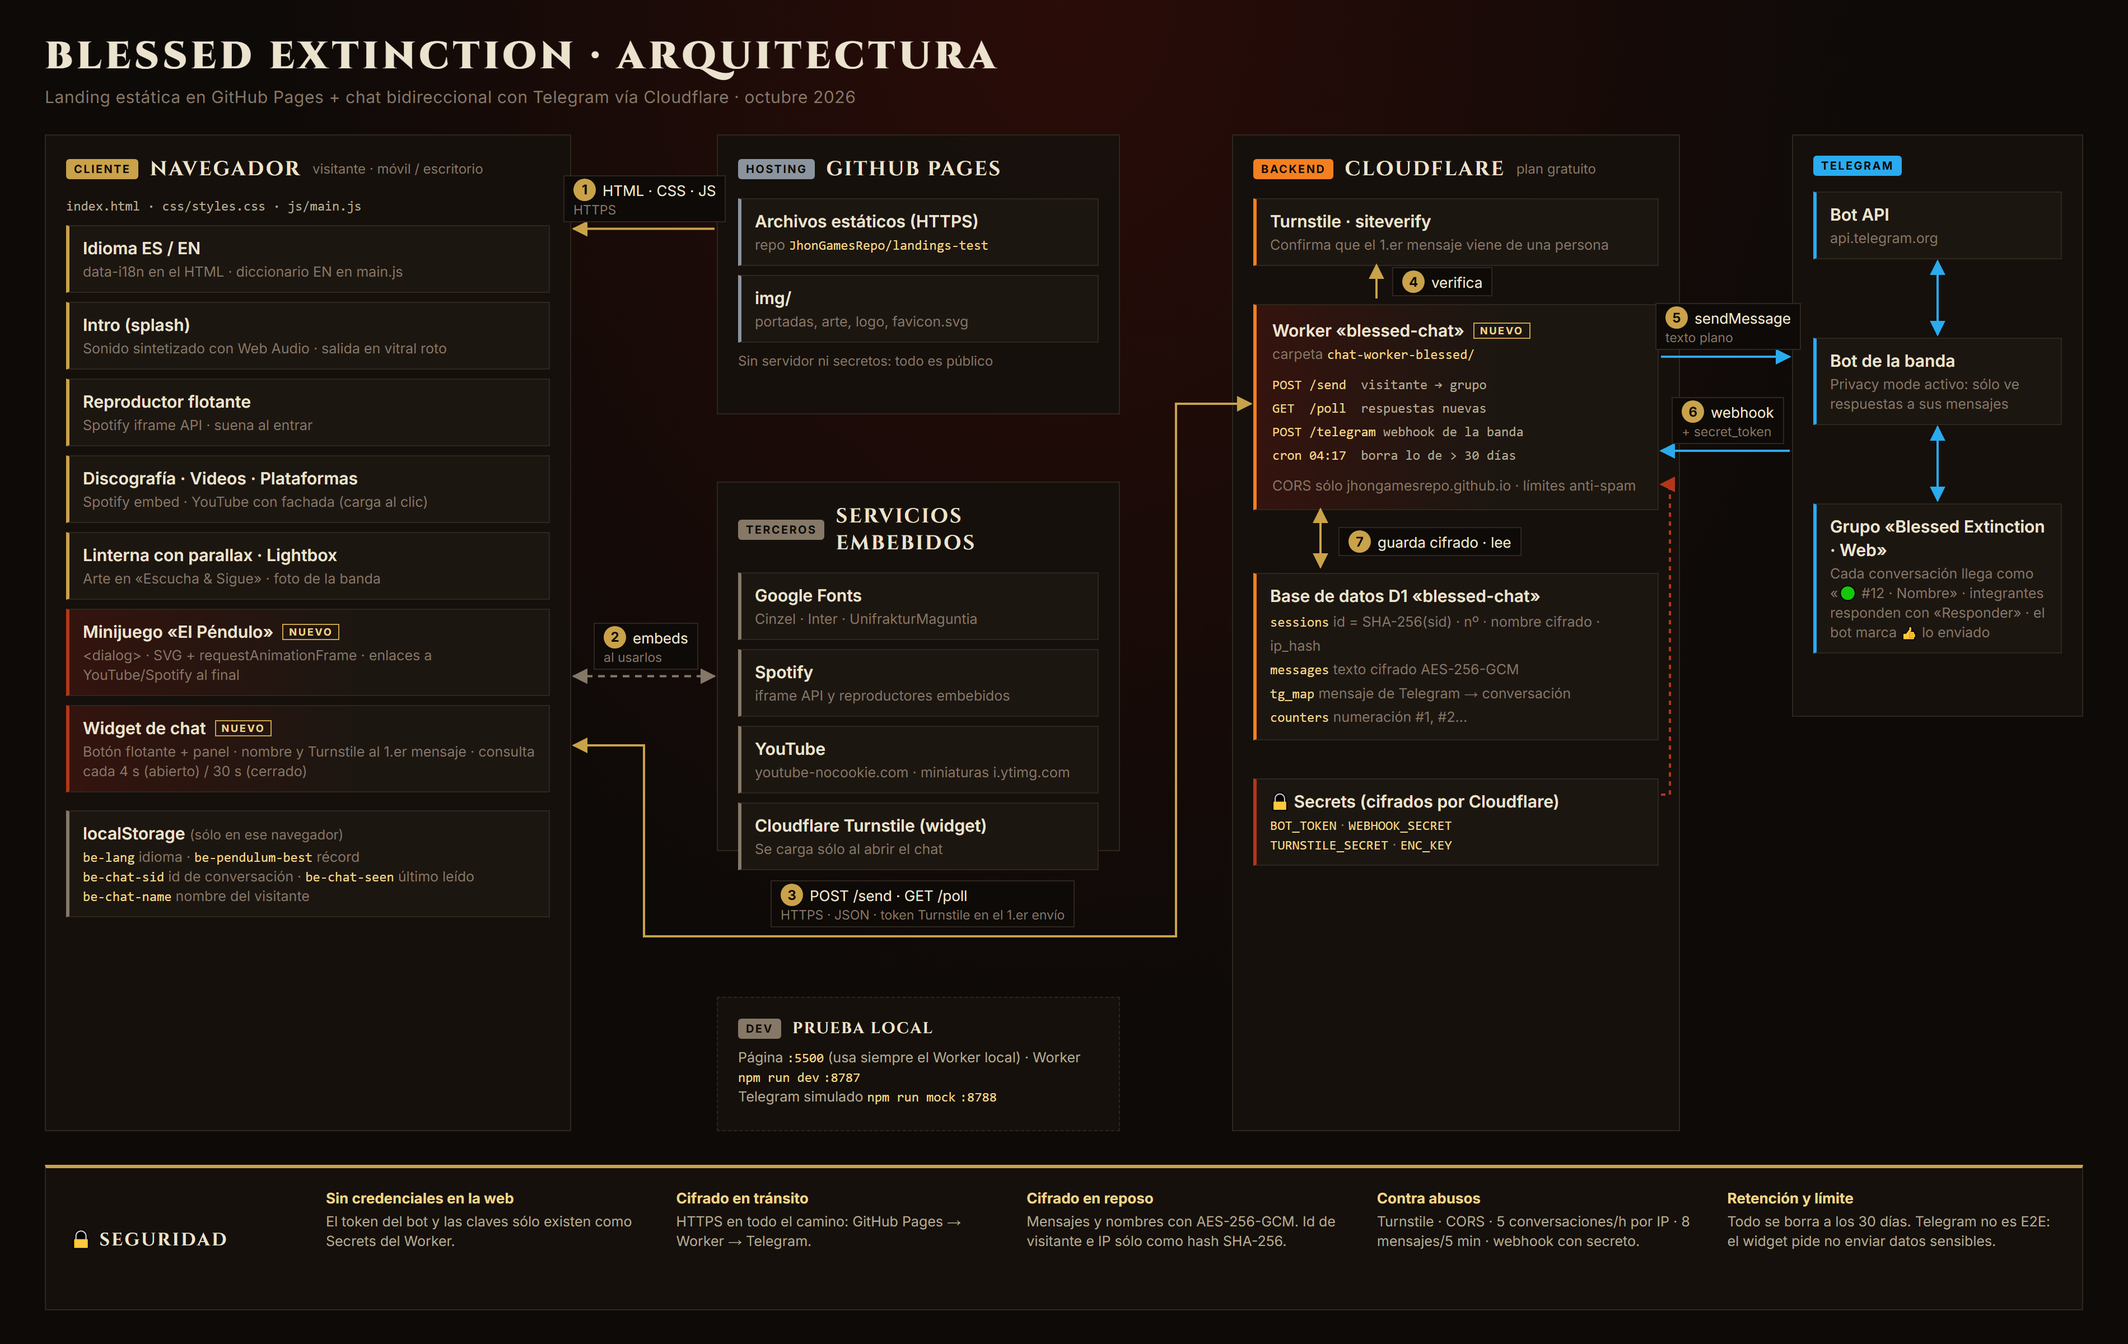
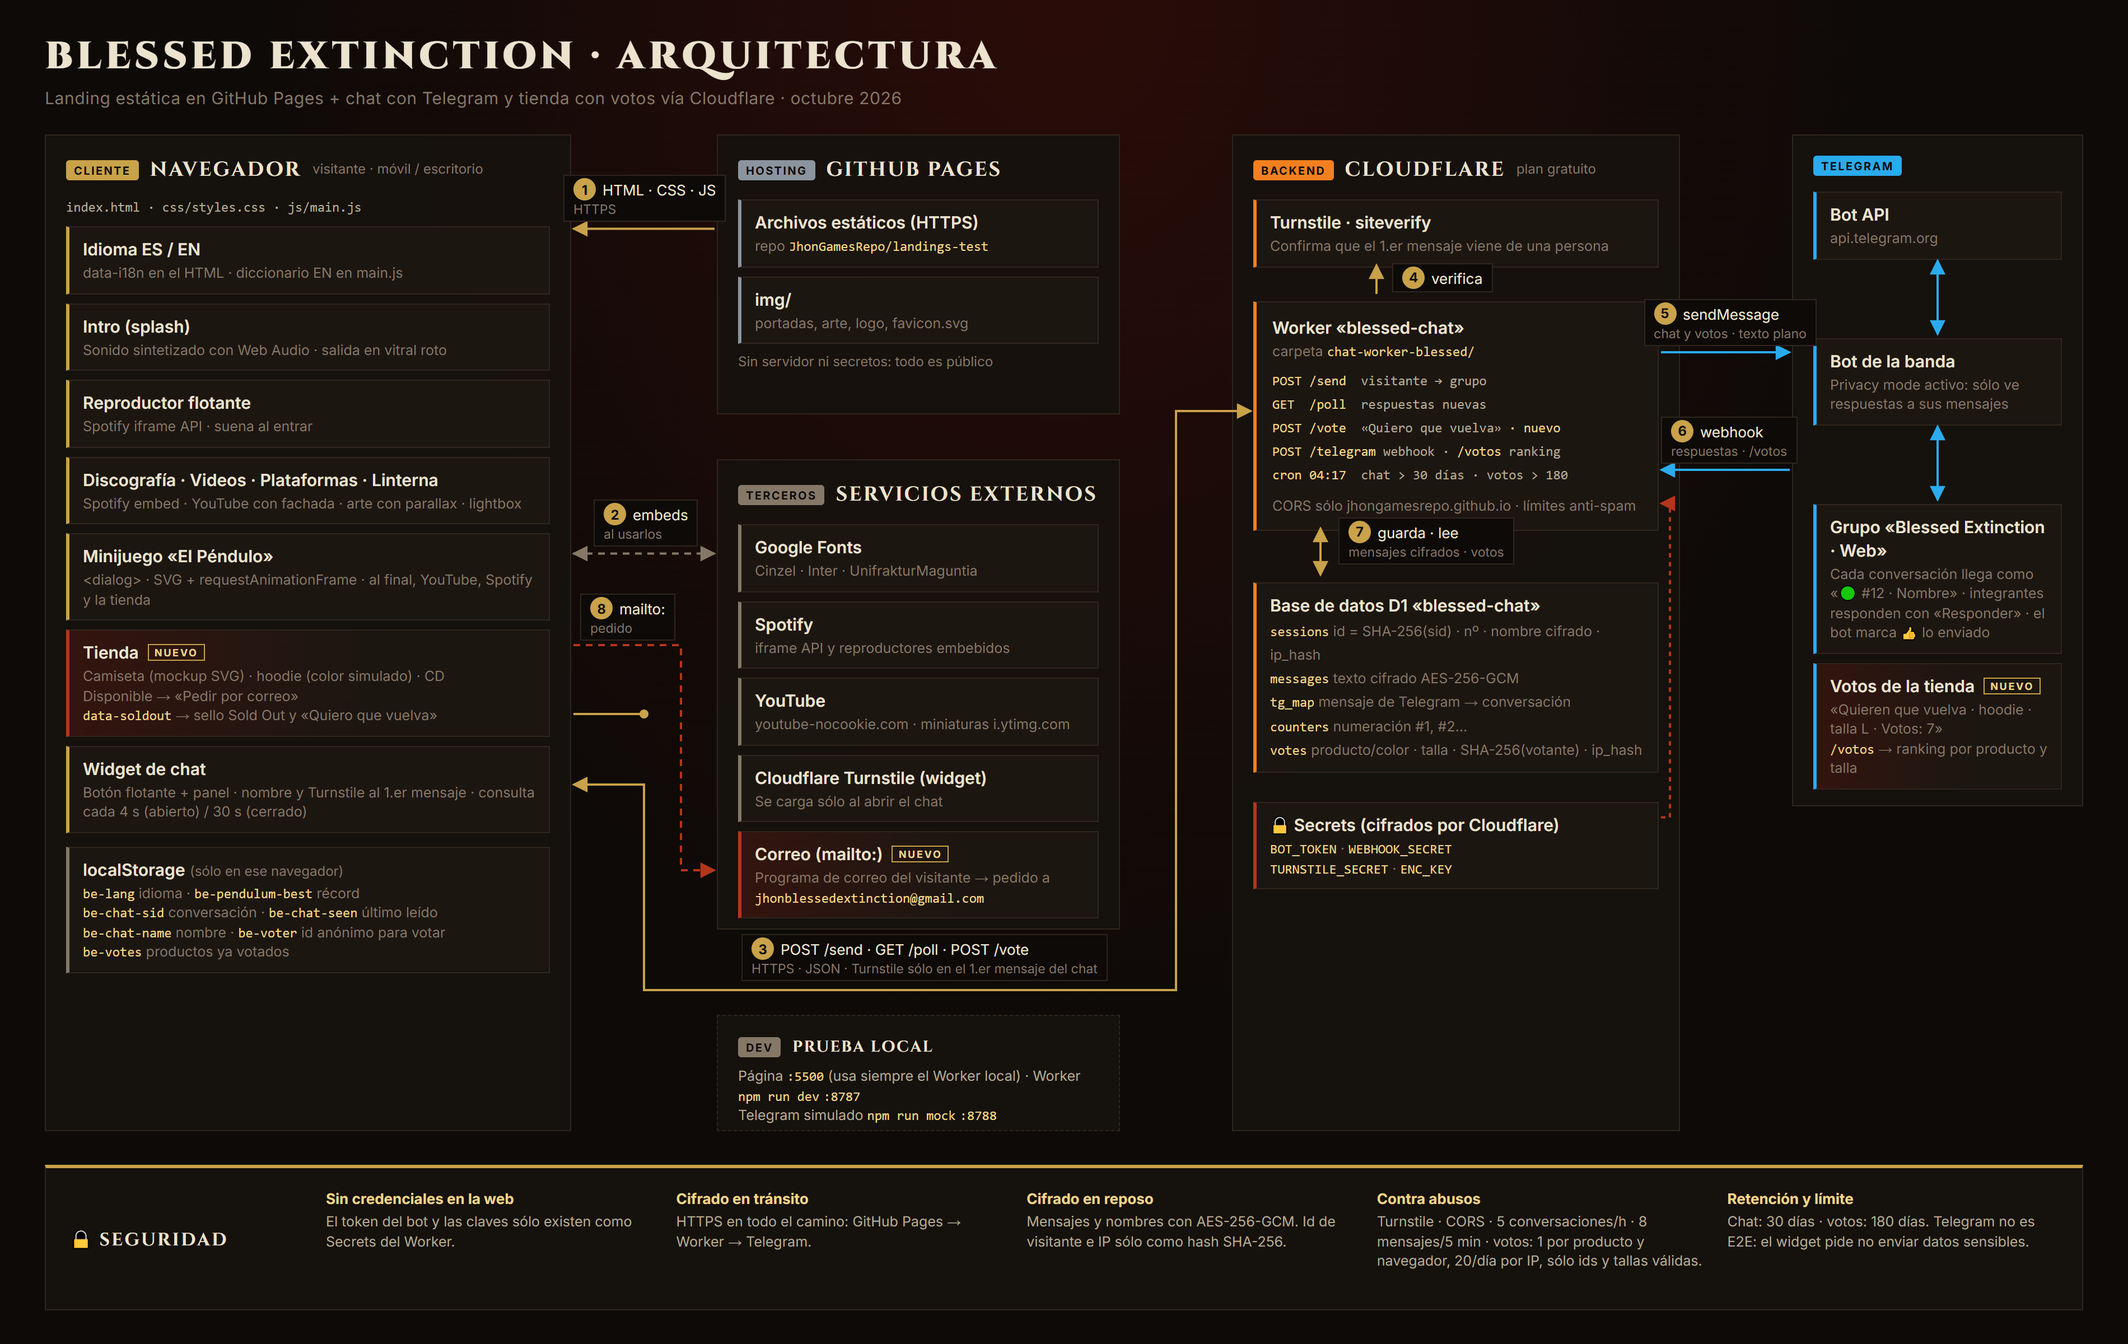
Arquitectura updated

diff --git a/docs/arquitectura.html b/docs/arquitectura.html
@@ -38,7 +38,7 @@
 </style>
 </head>
 <body>
-<h1>Blessed Extinction · Arquitectura<small>Landing estática en GitHub Pages + chat bidireccional con Telegram vía Cloudflare · octubre 2026</small></h1>
+<h1>Blessed Extinction · Arquitectura<small>Landing estática en GitHub Pages + chat con Telegram y tienda con votos vía Cloudflare · octubre 2026</small></h1>
 
 <!-- Navegador -->
 <div class="zone" id="zBrowser" style="left:40px; top:120px; width:470px; height:890px;">
@@ -47,12 +47,12 @@
   <div class="box"><b>Idioma ES / EN</b><p>data-i18n en el HTML · diccionario EN en main.js</p></div>
   <div class="box"><b>Intro (splash)</b><p>Sonido sintetizado con Web Audio · salida en vitral roto</p></div>
   <div class="box"><b>Reproductor flotante</b><p>Spotify iframe API · suena al entrar</p></div>
-  <div class="box"><b>Discografía · Videos · Plataformas</b><p>Spotify embed · YouTube con fachada (carga al clic)</p></div>
-  <div class="box"><b>Linterna con parallax · Lightbox</b><p>Arte en «Escucha &amp; Sigue» · foto de la banda</p></div>
-  <div class="box new"><b>Minijuego «El Péndulo»</b><p>&lt;dialog&gt; · SVG + requestAnimationFrame · enlaces a YouTube/Spotify al final</p></div>
-  <div class="box new" id="chatW"><b>Widget de chat</b><p>Botón flotante + panel · nombre y Turnstile al 1.er mensaje · consulta cada 4 s (abierto) / 30 s (cerrado)</p></div>
-  <div class="box" style="border-left-color:var(--ash); margin-top:16px"><b>localStorage</b> <span style="font-size:12px;color:var(--ash)">(sólo en ese navegador)</span>
-    <p><code>be-lang</code> idioma · <code>be-pendulum-best</code> récord<br><code>be-chat-sid</code> id de conversación · <code>be-chat-seen</code> último leído<br><code>be-chat-name</code> nombre del visitante</p></div>
+  <div class="box"><b>Discografía · Videos · Plataformas · Linterna</b><p>Spotify embed · YouTube con fachada · arte con parallax · lightbox</p></div>
+  <div class="box"><b>Minijuego «El Péndulo»</b><p>&lt;dialog&gt; · SVG + requestAnimationFrame · al final, YouTube, Spotify y la tienda</p></div>
+  <div class="box new" id="storeW"><b>Tienda</b><p>Camiseta (mockup SVG) · hoodie (color simulado) · CD<br>Disponible → «Pedir por correo»<br><code>data-soldout</code> → sello Sold Out y «Quiero que vuelva»</p></div>
+  <div class="box" id="chatW"><b>Widget de chat</b><p>Botón flotante + panel · nombre y Turnstile al 1.er mensaje · consulta cada 4 s (abierto) / 30 s (cerrado)</p></div>
+  <div class="box" style="border-left-color:var(--ash); margin-top:12px"><b>localStorage</b> <span style="font-size:12px;color:var(--ash)">(sólo en ese navegador)</span>
+    <p><code>be-lang</code> idioma · <code>be-pendulum-best</code> récord<br><code>be-chat-sid</code> conversación · <code>be-chat-seen</code> último leído<br><code>be-chat-name</code> nombre · <code>be-voter</code> id anónimo para votar<br><code>be-votes</code> productos ya votados</p></div>
 </div>
 
 <!-- GitHub Pages -->
@@ -64,16 +64,17 @@
 </div>
 
 <!-- Externos -->
-<div class="zone ext" style="left:640px; top:430px; width:360px; height:330px;">
-  <div class="head"><span class="tag t-ext">Terceros</span><b>Servicios embebidos</b></div>
-  <div class="box"><b>Google Fonts</b><p>Cinzel · Inter · UnifrakturMaguntia</p></div>
+<div class="zone ext" style="left:640px; top:410px; width:360px; height:420px;">
+  <div class="head"><span class="tag t-ext">Terceros</span><b>Servicios externos</b></div>
+  <div class="box" id="extFonts"><b>Google Fonts</b><p>Cinzel · Inter · UnifrakturMaguntia</p></div>
   <div class="box" id="extSpotify"><b>Spotify</b><p>iframe API y reproductores embebidos</p></div>
   <div class="box"><b>YouTube</b><p>youtube-nocookie.com · miniaturas i.ytimg.com</p></div>
   <div class="box"><b>Cloudflare Turnstile (widget)</b><p>Se carga sólo al abrir el chat</p></div>
+  <div class="box new" id="extMail" style="border-left-color:var(--ember)"><b>Correo (mailto:)</b><p>Programa de correo del visitante → pedido a<br><code>jhonblessedextinction@gmail.com</code></p></div>
 </div>
 
 <!-- Local -->
-<div class="zone" style="left:640px; top:890px; width:360px; height:120px; border-style:dashed;">
+<div class="zone" style="left:640px; top:906px; width:360px; height:104px; border-style:dashed;">
   <div class="head" style="margin-bottom:8px"><span class="tag t-ext">Dev</span><b style="font-size:14px">Prueba local</b></div>
   <div style="font-size:12.5px">Página <code>:5500</code> (usa siempre el Worker local) · Worker <code>npm run dev</code> <code>:8787</code><br>Telegram simulado <code>npm run mock</code> <code>:8788</code></div>
 </div>
@@ -81,28 +82,30 @@
 <!-- Cloudflare -->
 <div class="zone cf" style="left:1100px; top:120px; width:400px; height:890px;">
   <div class="head"><span class="tag t-cf">Backend</span><b>Cloudflare</b><span>plan gratuito</span></div>
-  <div class="box" id="ts" style="margin-bottom:34px"><b>Turnstile · siteverify</b><p>Confirma que el 1.er mensaje viene de una persona</p></div>
-  <div class="box new" id="worker" style="border-left-color:var(--cf); padding:12px 14px"><b>Worker «blessed-chat»</b><p style="margin-bottom:8px">carpeta <code>chat-worker-blessed/</code></p>
+  <div class="box" id="ts" style="margin-bottom:30px"><b>Turnstile · siteverify</b><p>Confirma que el 1.er mensaje viene de una persona</p></div>
+  <div class="box" id="worker" style="border-left-color:var(--cf); padding:12px 14px"><b>Worker «blessed-chat»</b><p style="margin-bottom:8px">carpeta <code>chat-worker-blessed/</code></p>
     <div class="mono" style="line-height:1.75">
       <code>POST /send</code> &nbsp;visitante → grupo<br>
       <code>GET&nbsp; /poll</code> &nbsp;respuestas nuevas<br>
-      <code>POST /telegram</code> webhook de la banda<br>
-      <code>cron 04:17</code> &nbsp;borra lo de &gt; 30 días
+      <code>POST /vote</code> &nbsp;«Quiero que vuelva» <span style="color:var(--gold-l)">· nuevo</span><br>
+      <code>POST /telegram</code> webhook · <code>/votos</code> ranking<br>
+      <code>cron 04:17</code> &nbsp;chat &gt; 30 días · votos &gt; 180
     </div>
     <p style="margin-top:8px">CORS sólo jhongamesrepo.github.io · límites anti-spam</p>
   </div>
-  <div class="box" id="d1" style="margin-top:56px"><b>Base de datos D1 «blessed-chat»</b>
-    <p style="line-height:1.7"><code>sessions</code> id = SHA-256(sid) · nº · nombre cifrado · ip_hash<br><code>messages</code> texto cifrado AES-256-GCM<br><code>tg_map</code> mensaje de Telegram → conversación<br><code>counters</code> numeración #1, #2…</p></div>
-  <div class="box" id="secrets" style="margin-top:34px; border-left-color:var(--ember)"><b>🔒 Secrets (cifrados por Cloudflare)</b>
+  <div class="box" id="d1" style="margin-top:46px"><b>Base de datos D1 «blessed-chat»</b>
+    <p style="line-height:1.7"><code>sessions</code> id = SHA-256(sid) · nº · nombre cifrado · ip_hash<br><code>messages</code> texto cifrado AES-256-GCM<br><code>tg_map</code> mensaje de Telegram → conversación<br><code>counters</code> numeración #1, #2…<br><code>votes</code> producto/color · talla · SHA-256(votante) · ip_hash</p></div>
+  <div class="box" id="secrets" style="margin-top:26px; border-left-color:var(--ember)"><b>🔒 Secrets (cifrados por Cloudflare)</b>
     <p><code>BOT_TOKEN</code> · <code>WEBHOOK_SECRET</code><br><code>TURNSTILE_SECRET</code> · <code>ENC_KEY</code></p></div>
 </div>
 
 <!-- Telegram -->
-<div class="zone tgz" id="zTg" style="left:1600px; top:120px; width:260px; height:520px;">
+<div class="zone tgz" id="zTg" style="left:1600px; top:120px; width:260px; height:600px;">
   <div class="head"><span class="tag t-tg">Telegram</span></div>
   <div class="box" id="tgApi"><b>Bot API</b><p>api.telegram.org</p></div>
   <div class="box" id="tgBot" style="margin-top:70px"><b>Bot de la banda</b><p>Privacy mode activo: sólo ve respuestas a sus mensajes</p></div>
   <div class="box" id="tgGroup" style="margin-top:70px"><b>Grupo «Blessed Extinction · Web»</b><p>Cada conversación llega como «🟢 #12 · Nombre» · integrantes responden con «Responder» · el bot marca 👍 lo enviado</p></div>
+  <div class="box new" id="tgVotes"><b>Votos de la tienda</b><p>«Quieren que vuelva · hoodie · talla L · Votos: 7»<br><code>/votos</code> → ranking por producto y talla</p></div>
 </div>
 
 <svg class="arrows" id="arrows" viewBox="0 0 1900 1200"></svg>
@@ -114,8 +117,8 @@
   <div><b>Sin credenciales en la web</b>El token del bot y las claves sólo existen como Secrets del Worker.</div>
   <div><b>Cifrado en tránsito</b>HTTPS en todo el camino: GitHub Pages → Worker → Telegram.</div>
   <div><b>Cifrado en reposo</b>Mensajes y nombres con AES-256-GCM. Id de visitante e IP sólo como hash SHA-256.</div>
-  <div><b>Contra abusos</b>Turnstile · CORS · 5 conversaciones/h por IP · 8 mensajes/5 min · webhook con secreto.</div>
-  <div><b>Retención y límite</b>Todo se borra a los 30 días. Telegram no es E2E: el widget pide no enviar datos sensibles.</div>
+  <div><b>Contra abusos</b>Turnstile · CORS · 5 conversaciones/h · 8 mensajes/5 min · votos: 1 por producto y navegador, 20/día por IP, sólo ids y tallas válidas.</div>
+  <div><b>Retención y límite</b>Chat: 30 días · votos: 180 días. Telegram no es E2E: el widget pide no enviar datos sensibles.</div>
 </div>
 
 <script>
@@ -137,7 +140,7 @@ const label = (x, y, html, sub = '', anchor = 'left') => {
   el.style.top = (y - h) + 'px';
 };
 const n = (k) => `<span class="n">${k}</span>`;
-const B = r('zBrowser'), files = r('ghFiles'), sp = r('extSpotify'), chat = r('chatW'), ts = r('ts'), w = r('worker'), d1 = r('d1'), sec = r('secrets'), T = r('zTg'), api = r('tgApi'), bot = r('tgBot'), grp = r('tgGroup');
+const B = r('zBrowser'), files = r('ghFiles'), sp = r('extFonts'), chat = r('chatW'), store = r('storeW'), mail = r('extMail'), ts = r('ts'), w = r('worker'), d1 = r('d1'), sec = r('secrets'), T = r('zTg'), api = r('tgApi'), bot = r('tgBot'), grp = r('tgGroup');
 const gx = 640;
 // 1 GitHub Pages → navegador
 let y = files.top + files.height / 2;
@@ -148,23 +151,30 @@ line(`M${B.right + 2} ${y}H${gx - 2}`, 'ash', { both: true, dash: '6 5' }); labe
 // 3 widget de chat ↔ Worker
 y = chat.top + chat.height / 2;
 const wy = w.top + w.height / 2, xr = 1050;
-const yb = 836, xl = 575; // por debajo de «Servicios embebidos»
+const yb = 884, xl = 575; // por debajo de «Servicios externos»
+// La tienda (votos) entra al mismo carril que el chat
+const ys = store.bottom - 16;
 line(`M${B.right + 2} ${y}H${xl}V${yb}H${xr}V${wy}H${w.left - 2}`, 'gold', { both: true });
-label(820, yb - 8, n(3) + 'POST /send · GET /poll', 'HTTPS · JSON · token Turnstile en el 1.er envío', 'center');
+svg.insertAdjacentHTML('beforeend', `<path d="M${B.right + 2} ${ys}H${xl}" fill="none" stroke="${C.gold}" stroke-width="2"/><circle cx="${xl}" cy="${ys}" r="4" fill="${C.gold}"/>`);
+label(820, yb - 8, n(3) + 'POST /send · GET /poll · POST /vote', 'HTTPS · JSON · Turnstile sólo en el 1.er mensaje del chat', 'center');
+// 8 tienda → correo del visitante
+const ym = store.top + 18, xm = 608, my = mail.top + mail.height / 2;
+line(`M${B.right + 2} ${ym}H${xm}V${my}H${gx - 2}`, 'ember', { dash: '6 5' });
+label(B.right + 8, ym - 4, n(8) + 'mailto:', 'pedido');
 // 4 Worker → Turnstile
 const tx = w.left + 110;
 line(`M${tx} ${w.top - 2}V${ts.bottom + 2}`, 'gold'); label(tx + 14, w.top - 4, n(4) + 'verifica');
 // 5 Worker → Telegram   6 Telegram → Worker
 const y5 = w.top + 50, y6 = w.bottom - 50;
-line(`M${w.right + 2} ${y5}H${T.left - 2}`, 'tg'); label((w.right + T.left) / 2, y5 - 6, n(5) + 'sendMessage', 'texto plano', 'center');
-line(`M${T.left - 2} ${y6}H${w.right + 2}`, 'tg'); label((w.right + T.left) / 2, y6 - 6, n(6) + 'webhook', '+ secret_token', 'center');
+line(`M${w.right + 2} ${y5}H${T.left - 2}`, 'tg'); label((w.right + T.left) / 2, y5 - 6, n(5) + 'sendMessage', 'chat y votos · texto plano', 'center');
+line(`M${T.left - 2} ${y6}H${w.right + 2}`, 'tg'); label((w.right + T.left) / 2, y6 - 6, n(6) + 'webhook', 'respuestas · /votos', 'center');
 // Bot API ↔ bot ↔ grupo
 const cx = api.left + api.width / 2;
 line(`M${cx} ${api.bottom + 2}V${bot.top - 2}`, 'tg', { both: true });
 line(`M${cx} ${bot.bottom + 2}V${grp.top - 2}`, 'tg', { both: true });
 // 7 Worker ↔ D1
 const dx = w.left + 60;
-line(`M${dx} ${w.bottom + 2}V${d1.top - 2}`, 'gold', { both: true }); label(dx + 16, d1.top - 12, n(7) + 'guarda cifrado · lee');
+line(`M${dx} ${w.bottom + 2}V${d1.top - 2}`, 'gold', { both: true }); label(dx + 16, d1.top - 12, n(7) + 'guarda · lee', 'mensajes cifrados · votos');
 // Secrets → Worker (por el borde derecho de la zona)
 const sx = w.right + 10, sy = sec.top + sec.height / 2;
 line(`M${sec.right + 2} ${sy}H${sx}V${w.bottom - 20}H${w.right + 2}`, 'ember', { dash: '4 4' });

diff --git a/README.md b/README.md
@@ -50,6 +50,61 @@ Sección `#tienda` entre «La Banda» y «Tour», con la camiseta (tres colores 
 - **Colores del hoodie:** sólo hay foto en verde. El rojo y el azul se simulan girando el tono de esa foto (`data-hue` en grados y `data-sat` para avivar el color). Los negros y grises no cambian. Si hay fotos reales, cambia `data-hue` por `data-img="img/merch/hoodie-rojo.jpg"` en el botón del color.
 - `data-product` y `data-variant` son los nombres que ve la banda en Telegram: minúsculas, números y guiones.
 
+### Ver los votos «Quiero que vuelva»
+
+El Worker con votos está publicado en Cloudflare desde el 4 de octubre de 2026, y la tabla `votes` ya existe en la base de producción. Para que el botón de votar funcione, la página también tiene que estar subida a GitHub Pages.
+
+**1. Cada voto llega al grupo de Telegram** «Blessed Extinction · Web», enviado por el bot:
+
+```
+🗳 Quieren que vuelva
+hoodie/logo-rojo · talla L
+Votos: 7 (3 en talla L) · ES
+/votos → ranking
+```
+
+- `hoodie/logo-rojo` es el producto y el color (`data-product` / `data-variant`). Si el producto no tiene colores, sale sólo el producto, por ejemplo `cd-venganza-natural`.
+- `Votos` es el total de ese producto y color. Entre paréntesis, cuántos votos son de la talla elegida.
+- `ES` / `EN` es el idioma en que el fan veía la página.
+- Si alguien vuelve a votar por el mismo producto desde el mismo navegador, no llega otro mensaje.
+
+**2. Ranking en cualquier momento:** escribe `/votos` en el grupo (o `/votos@UsuarioDelBot`). El bot responde con los productos ordenados de más a menos pedidos:
+
+```
+🗳 Quieren que vuelva (últimos 180 días)
+
+1. hoodie/logo-rojo — 7 (L×3, M×2, sin talla×2)
+2. camiseta/logo-azul — 4 (M×4)
+```
+
+«sin talla» son votos de fans que no eligieron talla antes de votar.
+
+**3. Probar que funciona:** abre la web publicada, ve a la Tienda, elige un producto agotado (sello «Sold Out»), pulsa «🔔 Quiero que vuelva» y revisa que llegue el mensaje al grupo. Para borrar ese voto de prueba, mira el paso 5.
+
+**4. Si no llega nada:**
+
+| Síntoma | Causa probable |
+|---|---|
+| En la web sale «No se pudo registrar el voto» | La página no está publicada en `https://jhongamesrepo.github.io` (el Worker sólo acepta ese origen) o el Worker está caído. |
+| El botón dice «✓ Voto anotado» pero no llega mensaje | Ese navegador ya había votado por ese producto. Prueba desde otro navegador o en una ventana privada. |
+| `/votos` no responde | El bot sólo atiende el grupo configurado en `CHAT_ID`. Si el grupo se convirtió en supergrupo, el id cambió (ver la guía en `chat-worker-blessed/README.md`). |
+
+**5. Consultar o limpiar los votos en la base** (Cloudflare → Storage & Databases → D1 → `blessed-chat` → Console, o con wrangler desde `chat-worker-blessed/`):
+
+```sql
+-- Todos los votos, del más reciente al más antiguo
+SELECT item, size, datetime(ts / 1000, 'unixepoch') AS fecha FROM votes ORDER BY ts DESC;
+
+-- Reiniciar el conteo de un producto cuando vuelva a tener stock
+DELETE FROM votes WHERE item = 'hoodie/logo-rojo';
+```
+
+Con wrangler: `npx wrangler d1 execute blessed-chat --remote --command "SELECT item, size, COUNT(*) FROM votes GROUP BY item, size"`.
+
+Los votos se borran solos a los 180 días.
+
+**6. Si cambias el Worker** (`chat-worker-blessed/src/index.js`), publícalo con `npm run deploy` desde `chat-worker-blessed/`. La tabla `votes` ya existe: no hay que volver a ejecutar `npm run db:votes`.
+
 ## Chat con la banda (Telegram)
 
 Botón flotante abajo a la derecha que sube cuando aparece el reproductor de Spotify. En móvil se abre como hoja inferior. El backend está en `../chat-worker-blessed/`, donde también está la guía de configuración y seguridad. `CHAT_API` y `TURNSTILE_SITEKEY` en `js/main.js` apuntan al Worker publicado. En `localhost` / `127.0.0.1` la página usa siempre el Worker local (`npm run dev`), porque el de producción sólo acepta peticiones desde la web publicada; abierta como archivo (`file://`) no muestra el chat.
